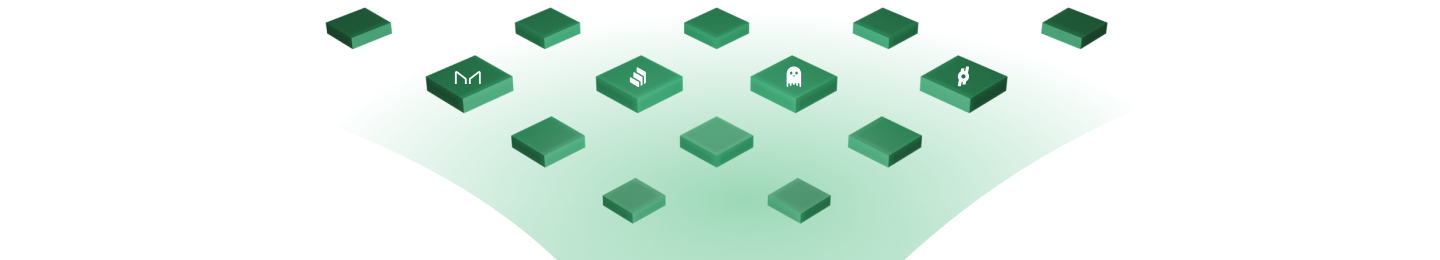
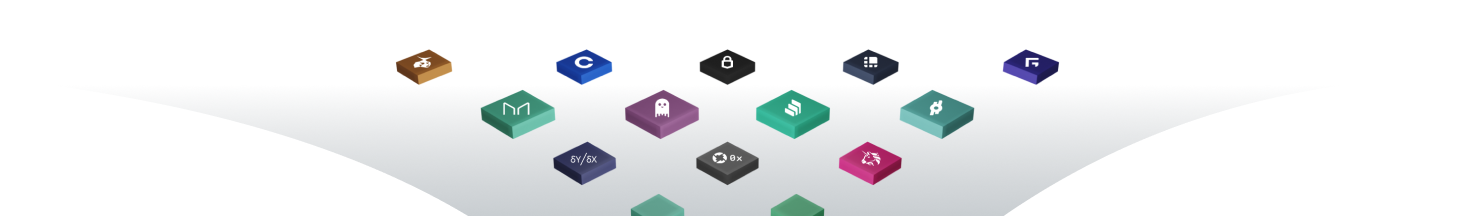
nav + header

diff --git a/css/styles.css b/css/styles.css
@@ -1,0 +1,189 @@
+:root {
+  --main-bg-color: #0B1216;
+  --main-bg-color-hover: #55CE8D;
+  --second-color: #37b06f;
+  --second-color-hover: #37B06F1A;
+  --main-green: #37b06f;
+  --menu-link: #939DA7;
+  --white: #fff;
+}
+
+body {
+  background-color: var(--main-bg-color);
+  font-family: Montserrat;
+  font-size: 15px;
+  line-height: 1.3;
+  color: var(--white);
+}
+
+nav {
+    width: 80%;
+    margin-right: auto;
+    margin-left: auto;
+    padding-top: 20px;
+    display: flex;
+    flex-direction: row;
+    align-items: center;
+    justify-content: space-between;
+}
+
+nav a {
+  text-decoration: none;
+  color: var(--menu-link);
+  padding: 0 10px 0 10px;
+}
+
+header {
+  width: 100%;
+  background: linear-gradient(180deg, rgba(43, 57, 67, 0) 0%, #1A242B 92.86%, #1A242B 92.86%);
+}
+
+header h2 {
+  margin-top: 40px;
+  text-align: center;
+  font-weight: 600;
+  font-size: 60px;
+  line-height: 110%;
+}
+
+header span {
+  color: var(--main-green);
+  font-weight: 800;
+  font-size: 60px;
+  line-height: 110%;
+}
+
+header p {
+  padding-top: 30px;
+  text-align: center;
+  margin-right: auto;
+  margin-left: auto;
+  width: 40%;
+}
+
+.cta {
+  width: 60%;
+  margin-right: auto;
+  margin-left: auto;
+  display: flex;
+  flex-direction: row;
+  align-items: center;
+  justify-content: space-between;
+}
+
+.btn-green {
+  background-color: var(--main-green);
+  font-family: Montserrat;
+  font-size: 15px;
+  font-weight: 700;
+  color: var(--white);
+  border-style: none;
+  border-radius: 3px;
+  padding: 15px 20px 15px 20px;
+  margin-left: 10px;
+}
+
+.btn-second {
+  border-width: 1px;
+  border-style: solid;
+  border-color: var(--main-green);
+  border-radius: 3px;
+  background-color: rgba(0, 0, 0, 0);
+  font-family: Montserrat;
+  font-size: 15px;
+  font-weight: 700;
+  color: var(--main-green);
+  padding: 15px 20px 15px 20px;
+  margin-left: 10px;
+}
+
+.numbers {
+  display: flex;
+  flex-direction: row;
+  align-items: top;
+  justify-content: flex-start;
+}
+
+.cta-btn {
+  display: flex;
+  flex-direction: row;
+  align-items: top;
+  justify-content: flex-end;
+  margin-bottom: 40px;
+}
+.numbers p {
+  padding-right: 20px;
+}
+
+.num-white {
+  font-size: 30px;
+  color: var(--white);
+}
+
+
+@media (max-width: 1200px) {
+
+  .cta {
+    flex-direction: column;
+  }
+
+  .cta-btn {
+    padding-top: 40px;
+  }
+
+  header h2 {
+    font-size: 40px;
+  }
+
+  header span {
+    font-size: 40px;
+  }
+
+  header p {
+    width: 90%;
+    margin-bottom: 20px;
+  }
+}
+
+@media (max-width: 375px) {
+
+    .numbers {
+      flex-direction: column;
+      justify-content: center;
+    }
+
+    .numbers p {
+      text-align: center;
+      padding-top: 10px;
+    }
+
+    nav div {
+      display: none;
+    }
+
+    nav img {
+      margin-right: auto;
+      margin-left: auto;
+    }
+
+    header h2 {
+      font-size: 30px;
+    }
+
+    header span {
+      font-size: 30px;
+    }
+
+    .cta {
+      width: 90%;
+    }
+
+    .cta-btn {
+      flex-direction: column;
+      margin-left: 0px;
+    }
+
+    .btn-second {
+      margin-top: 20px;
+    }
+  }

diff --git a/index.html b/index.html
@@ -12,6 +12,7 @@
   <link rel="stylesheet" href="css/base.css?v=1.0" />
   <link rel="stylesheet" href="css/styles.css?v=1.0" />
   <link rel="stylesheet" href="css/font.css?v=1.0" />
+
  	<!-- Favicon -->
   <link rel="shortcut icon" type="image/svg" href="assets/favicon.svg"/>
 
@@ -23,8 +24,38 @@
 
 </head>
 <body>
-    <h1>
-      This is a static template, there is no bundler or bundling involved!
-    </h1>
+
+  <!-- Navigation -->
+  <nav>
+    <img src="assets/DFSlogo.svg"/>
+    <div>
+      <a href="https://help.defisaver.com/">Help</a>
+      <a href="https://medium.com/defi-saver">Blog</a>
+      <button class="btn-green">Go to App</button>
+    </div>
+  </nav>
+
+  <!-- Header -->
+  <header>
+    <h2>Advanced<br><span>DeFi Management.</span></h2>
+    <p>DeFi Saver is a one-stop dashboard for creating, managing and tracking your DeFi positions.</p>
+    <img src="assets/protocols.png">
+    <img src="assets/mockup.png">
+
+    <!-- CTA -->
+    <div class="cta">
+      <div class="numbers">
+        <p><span class="num-white">1.14b</span><br>Total Volume</p>
+        <p><span class="num-white">23,500</span><br>Transactions</p>
+        <p><span class="num-white">1.14b</span><br>Total volume</p>
+      </div>
+      <div class="cta-btn">
+        <button class="btn-green">Go to App</button>
+        <button class="btn-second">Run Simulation</button>
+      </div>
+    </div>
+
+  </header>
+
 </body>
 </html>
